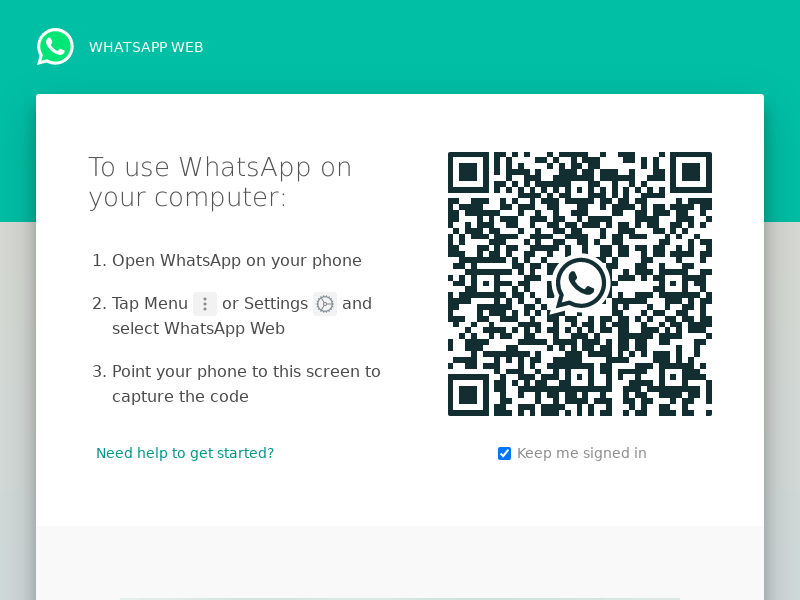
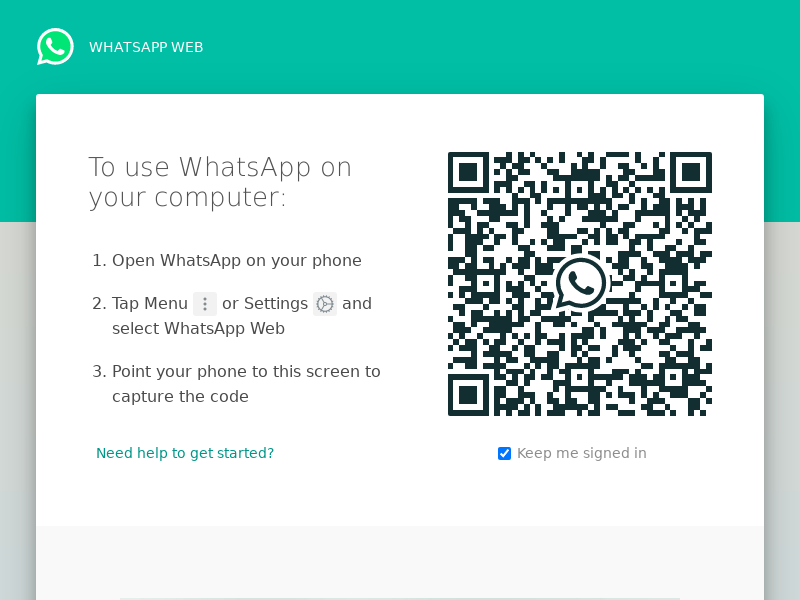
🌄🗽 Checkpoint ./example.js:23794624/22663

Changed region(s): [[0.5625, 0.24, 0.9062, 0.69]]

diff --git a/example.js b/example.js
@@ -7,11 +7,11 @@ const http = require("http").createServer(app);
 const url = require("url");
 const io = require("socket.io")(http);
 const bodyParser = require("body-parser");
-const SESSION_FILE_PATH = "./session.json";
-let sessionCfg;
-if (fs.existsSync(SESSION_FILE_PATH)) {
-  sessionCfg = require(SESSION_FILE_PATH);
-}
+// const SESSION_FILE_PATH = "./session.json";
+// let sessionCfg;
+// if (fs.existsSync(SESSION_FILE_PATH)) {
+//   sessionCfg = require(SESSION_FILE_PATH);
+// }
 
 const client = new Client({
   restartOnAuthFail: true,
@@ -27,8 +27,8 @@ const client = new Client({
       "--single-process", // <- this one doesn't works in Windows
       "--disable-gpu"
     ]
-  },
-  session: sessionCfg
+  }
+  // session: sessionCfg
 });
 
 app.use(bodyParser.json({ limit: "50mb" })); // for parsing application/json
@@ -58,12 +58,12 @@ client.on("qr", qr => {
 
 client.on("authenticated", session => {
   console.log("AUTHENTICATED", session);
-  sessionCfg = session;
-  fs.writeFile(SESSION_FILE_PATH, JSON.stringify(session), function(err) {
-    if (err) {
-      console.error(err);
-    }
-  });
+  // sessionCfg = session;
+  // fs.writeFile(SESSION_FILE_PATH, JSON.stringify(session), function(err) {
+  //   if (err) {
+  //     console.error(err);
+  //   }
+  // });
 });
 
 client.on("auth_failure", msg => {
@@ -75,10 +75,10 @@ client.on("disconnected", reason => {
   console.log("Client was logged out", reason);
   io.emit("client", reason);
   if (reason === "UNPAIRED") {
-    fs.unlinkSync(SESSION_FILE_PATH, function(err) {
-      if (err) return console.log(err);
-      console.log("Session file deleted!");
-    });
+    // fs.unlinkSync(SESSION_FILE_PATH, function(err) {
+    //   if (err) return console.log(err);
+    //   console.log("Session file deleted!");
+    // });
   }
   client.destroy();
   client.initialize();
